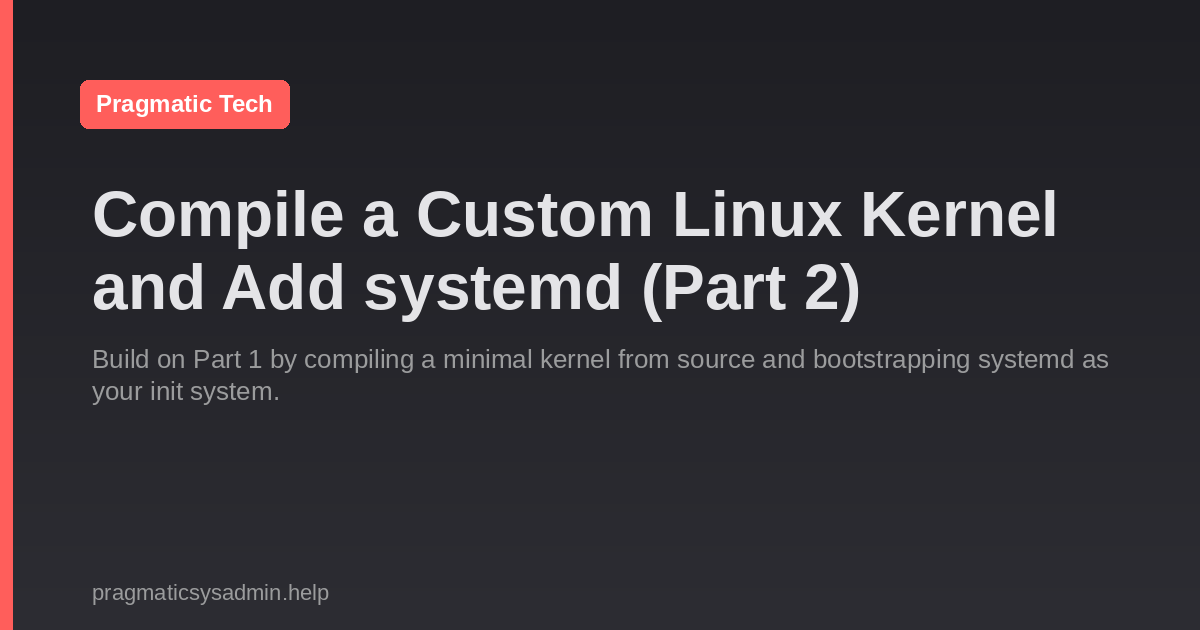
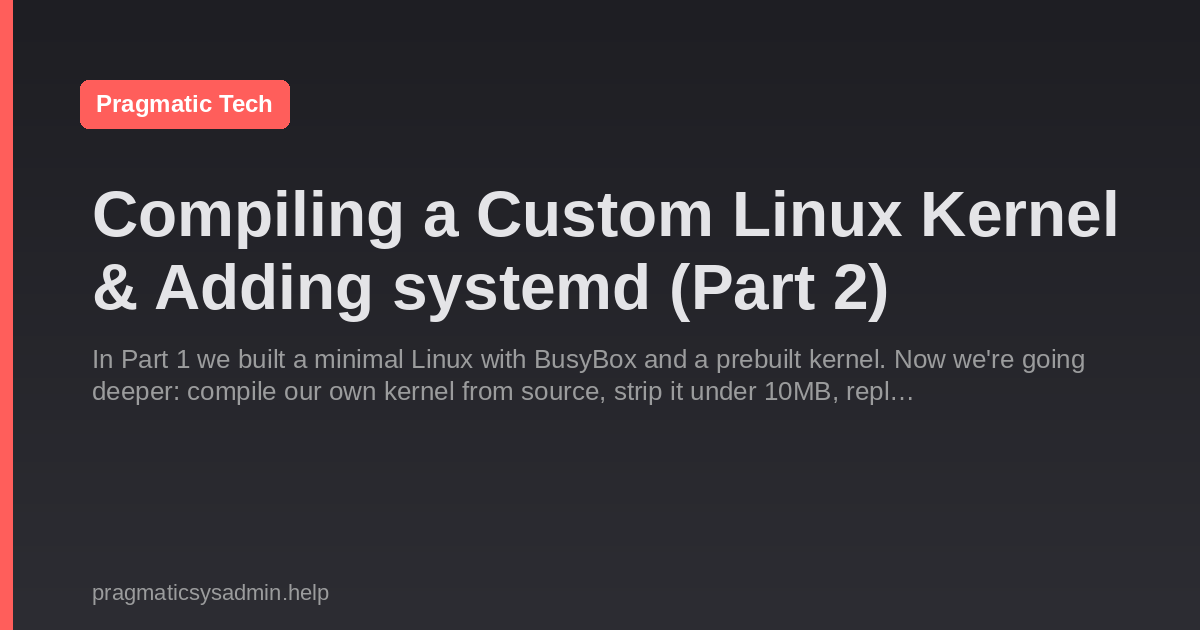
Fix: update OG image script to scan all post sections + generate missing images
The OG image generator script only scanned content/posts/, but posts
now live in content/sysadmin/ and content/senior-tech/ too. Result:
newer posts (Git Things, Linux Things) had no OG images, so their
homepage 'Latest' cards showed empty image slots.

- Updated scripts/generate-og-images.py to scan all 3 post directories
- Ran the script: 31 OG images generated (was 27)
- New images: git-things-easy-to-mess-up, linux-things-easy-to-miss,
  plus a few others that were missing

Changed region(s): [[0.0617, 0.5429, 0.925, 0.6333], [0.0617, 0.3921, 0.74, 0.5127], [0.2467, 0.3016, 0.9558, 0.3921]]

diff --git a/scripts/generate-og-images.py b/scripts/generate-og-images.py
@@ -27,7 +27,12 @@ except ImportError:
 # --- Config -------------------------------------------------------------------
 
 ROOT = Path(__file__).resolve().parent.parent
-POSTS_DIR = ROOT / "content" / "posts"
+# Scan all content sections that contain posts
+POSTS_DIRS = [
+    ROOT / "content" / "posts",
+    ROOT / "content" / "sysadmin",
+    ROOT / "content" / "senior-tech",
+]
 OUTPUT_DIR = ROOT / "static" / "og"
 OUTPUT_DIR.mkdir(parents=True, exist_ok=True)
 
@@ -196,13 +201,12 @@ def render_image(title, description, slug, site_name="Pragmatic Tech"):
 
 
 def main():
-    if not POSTS_DIR.exists():
-        print(f"ERROR: {POSTS_DIR} does not exist", file=sys.stderr)
-        sys.exit(1)
-
-    posts = sorted(POSTS_DIR.glob("*.md"))
+    posts = []
+    for posts_dir in POSTS_DIRS:
+        if posts_dir.exists():
+            posts.extend(sorted(posts_dir.glob("*.md")))
     if not posts:
-        print("No posts found.")
+        print("No posts found in any of:", [str(p) for p in POSTS_DIRS])
         return
 
     print(f"Generating OG images for {len(posts)} posts...")